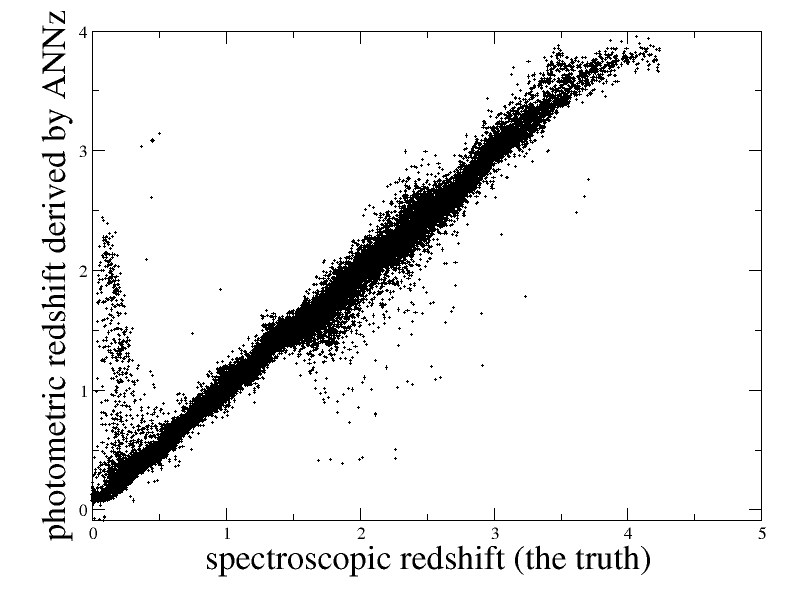
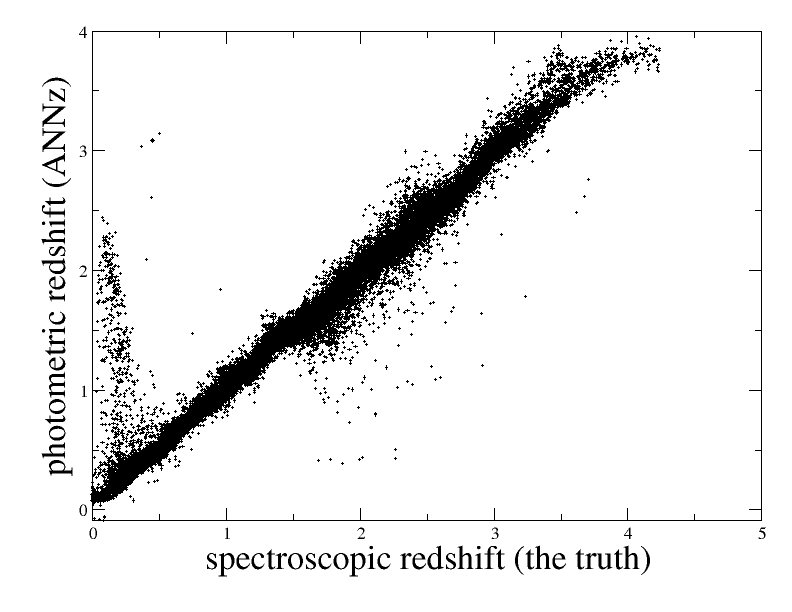
writing the photoz section

Changed region(s): [[0.0303, 0.0, 0.0909, 0.9003]]

diff --git a/doe_proposal_1306.tex b/doe_proposal_1306.tex
@@ -99,14 +99,25 @@ Because the empirical photometric redshift mapping function is learned
 directly from actual data, there is no need to ensure perfect theoretical
 understanding of the spectra being inferred. 
 
+
+
 \begin{figure}
+\subfigure[]{
 \includegraphics[scale=0.2]{annz_scatter_plot.png}
-\caption{
-Photometric redshift inferred by the ANNz neural network algorithm plotted
-against true spectroscopic redshift for 48,000 simulated LSST galaxy
-observations.
+\label{subfig:annz}
 }
-\label{fig:annzscatter}
+\subfigure[]{
+\includegraphics[scale=0.2]{eazy_scatter_plot.png}
+\label{subfig:eazy}
+}
+\caption{
+Photometric redshift plotted
+against true spectroscopic redshift for 48,000 simulated LSST galaxy
+observations.  Photometric redshifts are derived using the ANNZ neural
+network algorithm in Figure \ref{subfig:annz} and the EAZY template-fitting
+algorithm in Figure \ref{subfig:eazy}
+}
+\label{fig:scatter}
 \end{figure}
 
 \subsection{Gaussian Processes}
